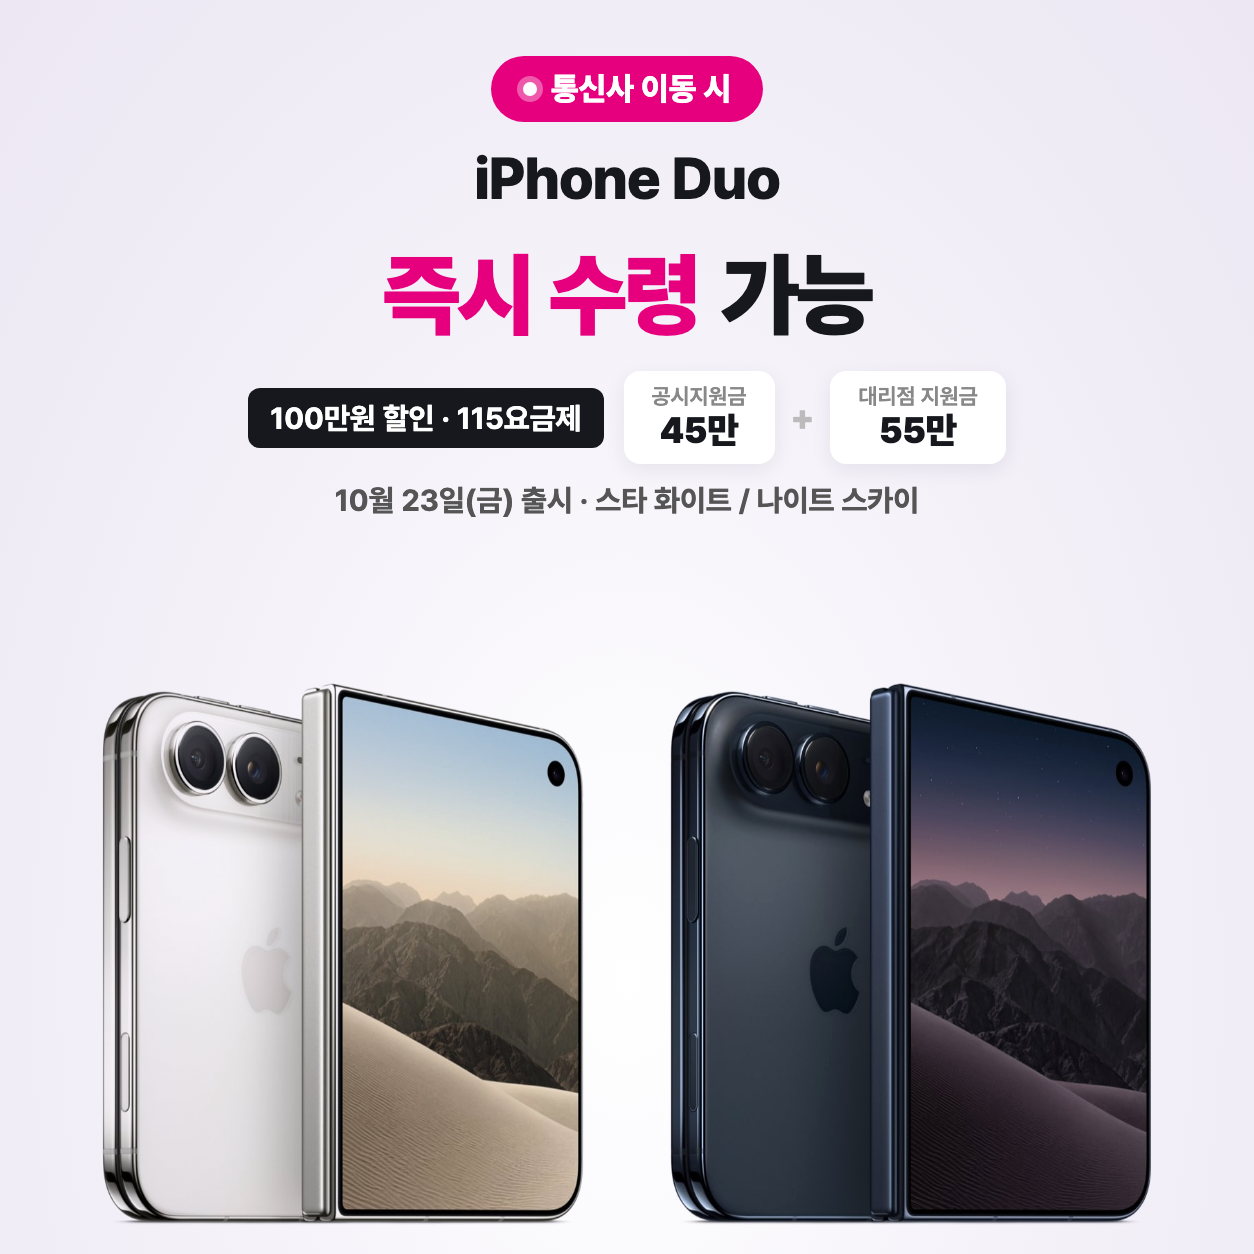
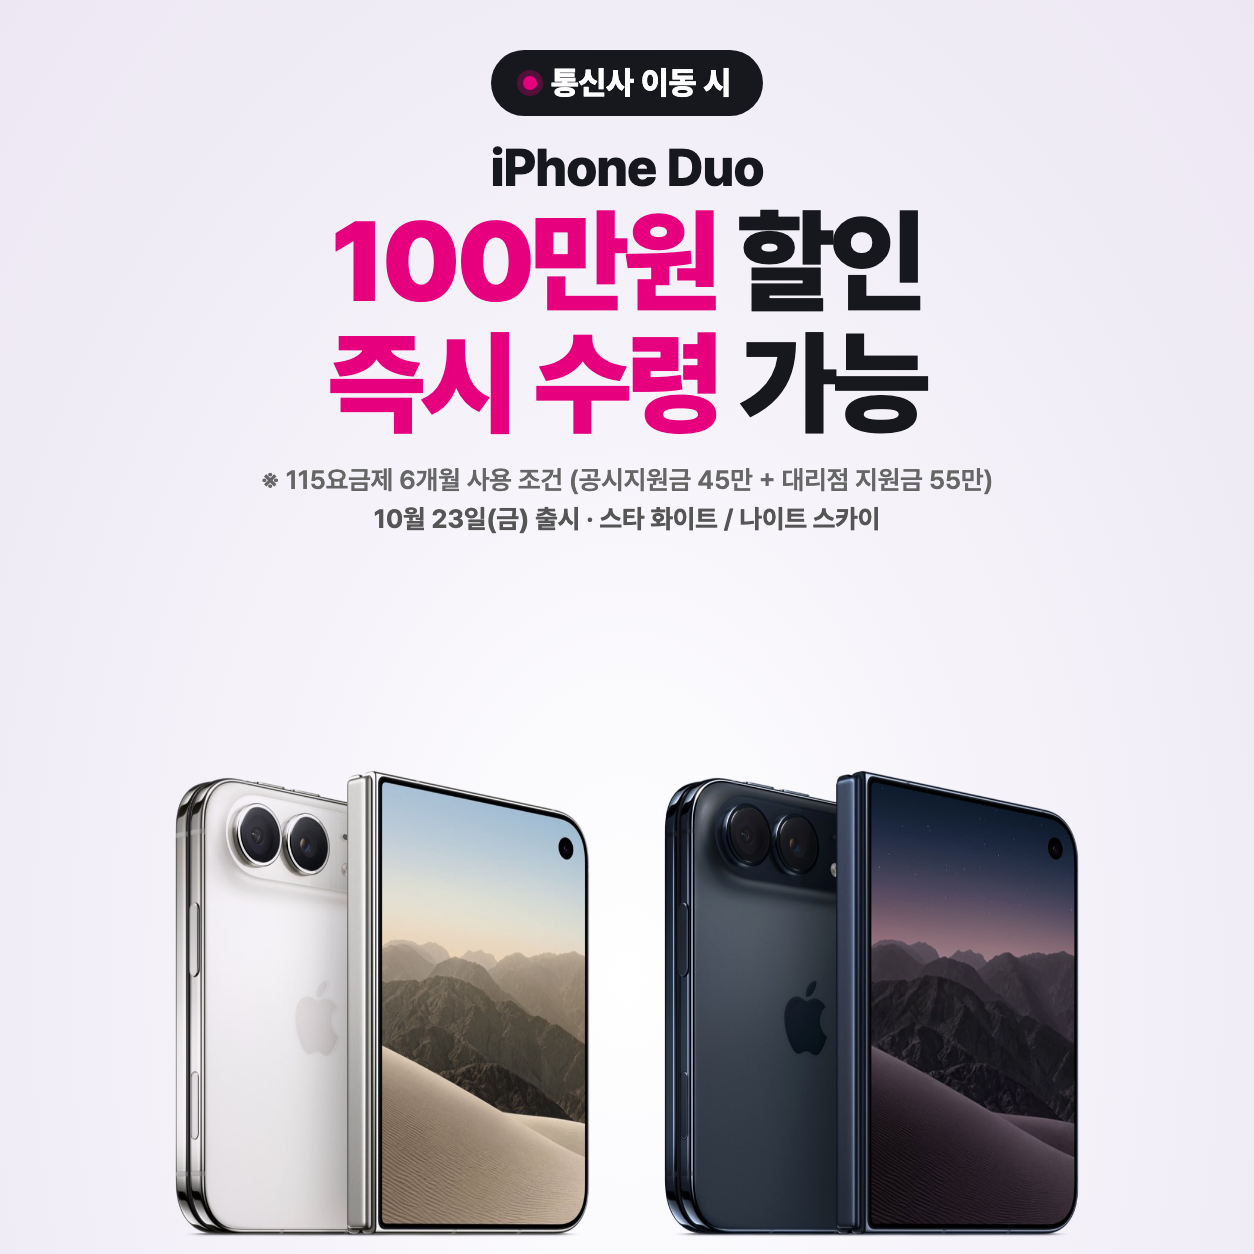
Hero: Duo 100만원 할인 + 즉시 수령, 요금제 조건 별도 표기

Changed region(s): [[0.0622, 0.5287, 0.4976, 0.9952], [0.1866, 0.0311, 0.8086, 0.4354], [0.5287, 0.5287, 0.933, 0.9952]]

diff --git a/index.html b/index.html
@@ -2294,8 +2294,8 @@ fbq('track', 'PageView');
 <section class="ip18-hero">
 <a class="ip18-hero-link" href="#apply-duo">
 <picture class="ip18-photo">
-<source media="(max-width: 768px)" srcset="ipduo_square.png?v=1022">
-<img src="ipduo_hero.png?v=1022" alt="아이폰 듀오 즉시 수령 가능(통신사 이동 시) - 100만원 할인(번호이동·115요금제, 공시지원금 45만원 + 대리점 지원금 55만원), 10월 23일(금) 출시 - LG유플러스 공식인증 대리점 LGU+더끌림컴퍼니">
+<source media="(max-width: 768px)" srcset="ipduo_square.png?v=1022b">
+<img src="ipduo_hero.png?v=1022b" alt="아이폰 듀오 통신사 이동 시 100만원 할인, 즉시 수령 가능 - 115요금제 6개월 사용 조건(공시지원금 45만원 + 대리점 지원금 55만원), 10월 23일(금) 출시 - LG유플러스 공식인증 대리점 LGU+더끌림컴퍼니">
 </picture>
 </a>
 </section>
@@ -2303,8 +2303,8 @@ fbq('track', 'PageView');
 <div class="eb-strip">
 <div class="eb-strip-inner">
 <div class="eb-copy">
-<strong>아이폰 듀오 <b>즉시 수령 가능</b> · 통신사 이동 시</strong>
-<span>100만원 할인 · 115요금제 기준 (공시 45만 + 대리점 55만) · 10월 23일(금) 출시</span>
+<strong>아이폰 듀오 <b>100만원 할인</b> · <b>즉시 수령 가능</b></strong>
+<span>통신사 이동 시 · 10월 23일(금) 출시<br>※ 115요금제 6개월 사용 조건 (공시 45만 + 대리점 55만)</span>
 </div>
 <a href="#apply-duo" class="eb-btn">신청하기 →</a>
 </div>
